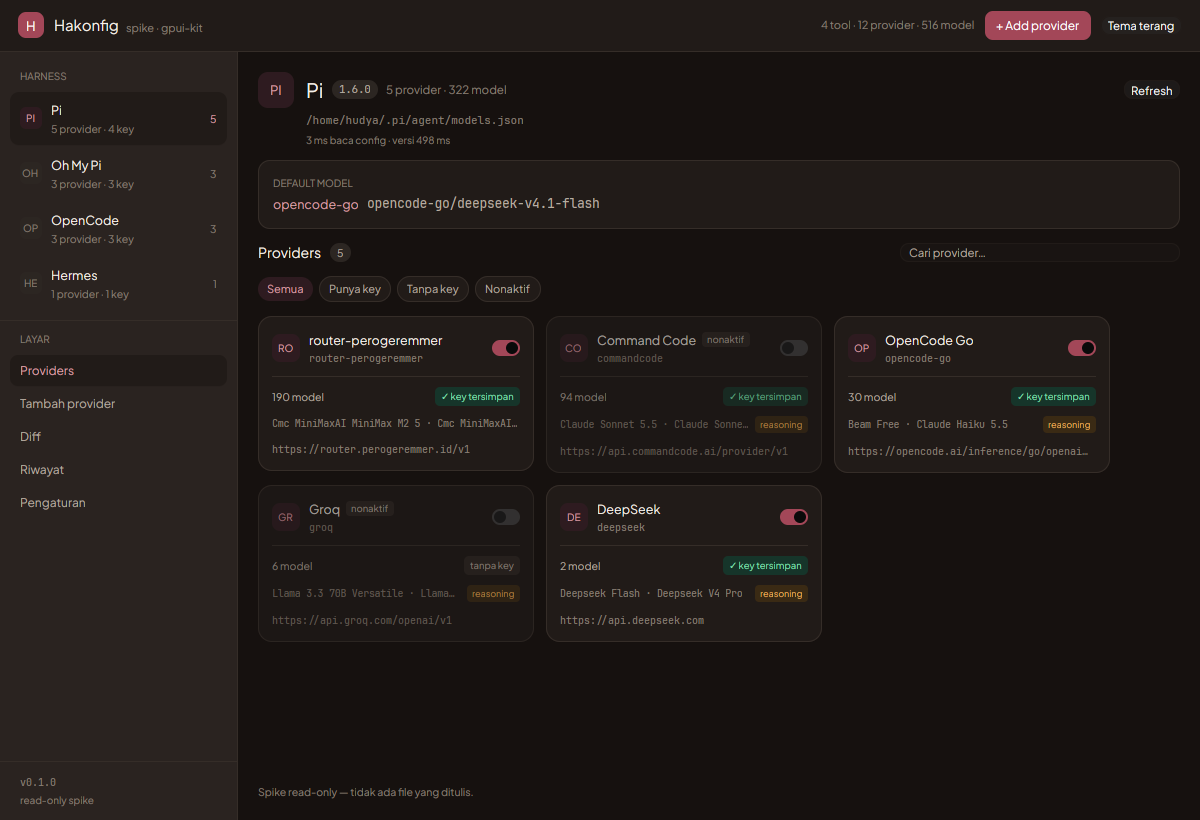
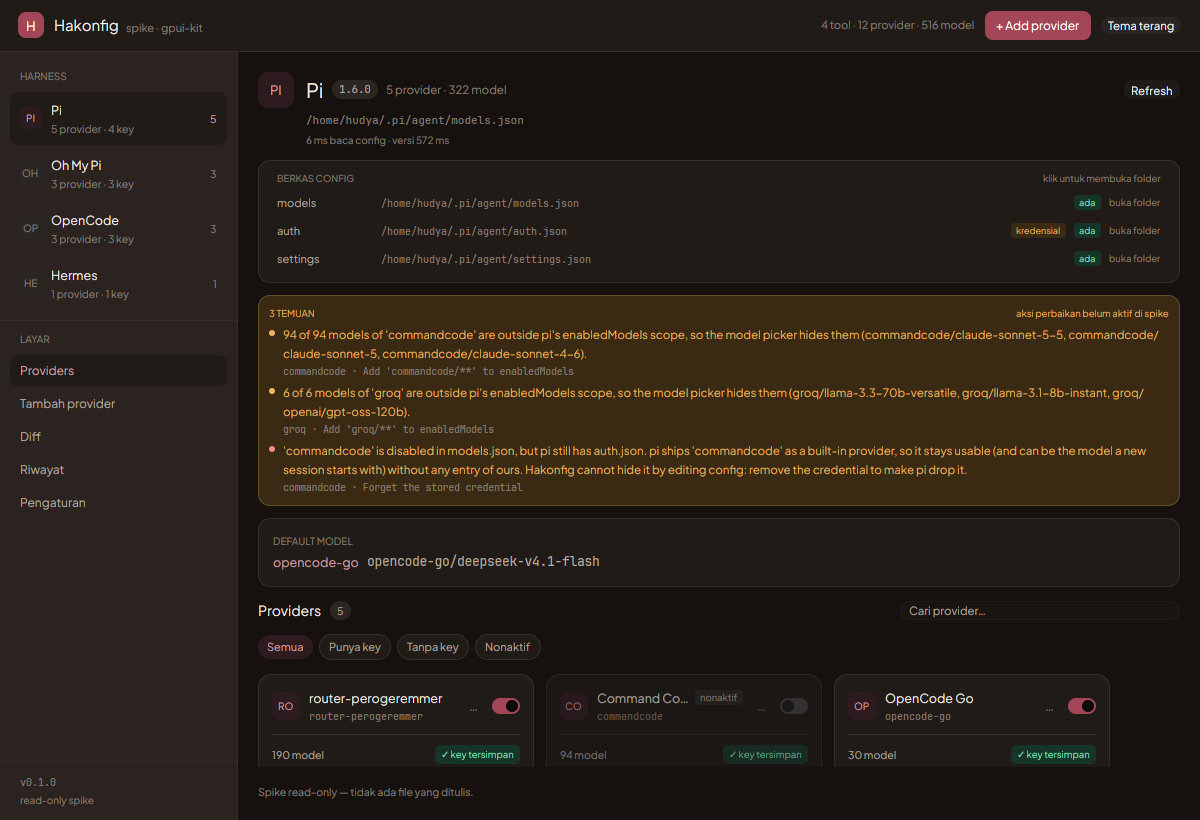
docs(spike): README dengan angka final, status per layar, dan jebakan gpui-kit

diff --git a/spike/gpui-kit/README.md b/spike/gpui-kit/README.md
@@ -1,81 +1,90 @@
-# Spike: layar Providers Hakonfig di atas GPUI Kit
+# Spike: Hakonfig di atas GPUI Kit
 
-Satu layar, satu tujuan: menjawab dengan angka apakah UI native Rust (GPUI Kit)
-layak menggantikan Tauri untuk Hakonfig — bukan dengan opini.
+Port UI Hakonfig dari Tauri (HTML/Tailwind) ke Rust native dengan **GPUI Kit**.
+Tujuannya menjawab dua pertanyaan dengan bukti, bukan opini:
 
-Isi spike ini **596 baris** Rust: sidebar harness, header, daftar provider dengan
-pencarian, kartu status key/model, footer default model, tombol refresh.
-Semua data datang dari `hakonfig_core::api` yang sama dengan yang dipakai
-`hakonfig-cli` dan GUI Tauri. **Nol baris** `hakonfig-core` diubah.
+1. Apakah `hakonfig_core` bisa dipakai apa adanya oleh UI non-Tauri?
+   **Ya** — nol baris core diubah, nol IPC, nol DTO serde.
+2. Seberapa jauh tampilan web bisa direproduksi dengan komponen native?
+   **Cukup jauh** — palet, font, kartu provider, tema gelap, dialog, toast,
+   tabel diff semua native.
 
-![Providers](docs/providers.png)
-![Pencarian](docs/providers-search.png)
+![Providers](docs/ui-light.png)
+![Tema gelap](docs/ui-dark.png)
+![Riwayat](docs/ui-history.png)
 
 ## Jalankan
 
 ```sh
 cd spike/gpui-kit
-cargo run --release          # butuh Rust 1.95+ (lihat catatan toolchain)
-./bench.sh                   # ukuran binary, dependency sistem, startup, RSS
+cargo run --release         # butuh Rust 1.95+ (lihat rust-toolchain.toml)
+
+./bench.sh                  # ukuran binary, dependency sistem, startup, RSS
 ./window-startup.sh ./target/release/hakonfig-spike "spike gpui-kit"
 ```
 
-Linux butuh paket dev: `libxcb`, `libxkbcommon`, `libxkbcommon-x11`
-(`libfontconfig`, `libfreetype` sudah jadi dependency umum).
+Linux: `libxcb`, `libxkbcommon`, `libxkbcommon-x11` (dev). `build.rs` menyediakan
+taut lokal kalau paket dev `libxkbcommon-x11` belum terpasang.
 
-## Angka
+## Angka (mesin ini, X11, release tanpa LTO)
 
-Diukur di mesin ini (X11, Rust 1.95.0, profil release tanpa LTO):
-
-| | Tauri 0.7.3 (rilis sekarang) | Spike GPUI Kit |
+| | Tauri 0.7.3 | Spike GPUI Kit |
 |---|---|---|
 | Binary | **6,3 MB** | 54 MB (42 MB di-strip) |
-| Dependency sistem | GTK3 + **WebKitGTK 2.50** + libxcb | libxcb, libxkbcommon, libc |
-| Waktu jendela tampil | **64–84 ms** | ~110 ms |
-| Frame pertama terlukis | tidak diukur | **167 ms** |
-| Data provider siap | tidak diukur | 1263 ms (didominasi spawn proses) |
+| Dependency sistem | GTK3 + **WebKitGTK 2.50** | libxcb, libxkbcommon, libc |
+| Jendela tampil | **64–84 ms** | ±110 ms |
+| Frame pertama berisi data | — | **307–387 ms** |
 | RSS | 144 MB | **119 MB** |
 
-Yang lebih penting dari tabel itu: **baca config 4 harness = 2 ms**. Sisa
-±1000 ms berasal dari `api::harness_version()`, yang menjalankan `<bin> --version`
-(omp saja 604 ms). Biaya itu identik di Tauri; renderer bukan bottleneck.
+Yang lebih penting dari tabel: **baca 4 config = 40–52 ms**, sedangkan
+`harness_version()` (spawn `<bin> --version`) memakan **±1.000 ms** dan identik di
+Tauri. Jadi bottleneck startup bukan renderer. Setelah probe versi dipindah ke
+background, frame pertama turun dari 1.178 ms (layar kosong) ke ±340 ms (data
+sudah tampil).
 
-## Temuan yang perlu dibaca sebelum memutuskan
+## Isi
 
-1. **Core benar-benar bebas UI.** `list_harnesses()`, `read_harness(id)`,
-   `harness_version(id)`, `HarnessSnapshot`, `ProviderSummary` dipakai langsung.
-   Tidak ada IPC, tidak ada DTO serde, tidak ada `capabilities/*.json`,
-   tidak ada `gen/schemas`. Ini keuntungan struktural yang nyata.
-2. **gpui-kit butuh Rust ≥ 1.95.** Di stable 1.93 build gagal: `gpui-pre 0.3.12`
-   memakai `std::hint::cold_path()` (issue rust-lang#136873). Crate-nya juga
-   tidak mendeklarasikan `rust-version`, jadi kegagalannya tidak jelas. Spike ini
-   memakai `rust-toolchain.toml` untuk memaku 1.95.0.
-3. **Konstruktor view sinkron.** Versi naif (baca config di `new()`) menahan
-   frame pertama sampai 1178 ms. Setelah dipindah ke `cx.background_spawn`,
-   frame pertama 167 ms dan data menyusul. Porting berarti menambah plumbing
-   async di setiap layar, bukan sekadar menerjemahkan HTML.
-4. **Default layout mengejutkan.** `h_flex()` di gpui-kit = row **+ items_center**.
-   Anak-anaknya jadi center vertikal sampai ditambah `items_stretch()` — bug
-   pertama yang muncul di spike ini, dan tipe regresi yang akan berulang di 5
-   layar lain.
-5. **Font tidak otomatis.** Spike memakai font sistem; Plus Jakarta Sans yang
-   sekarang dibundel lewat `@font-face` harus didaftarkan manual ke font registry.
-6. **Tidak ada devtools, tidak ada preview browser.** Iterasi = recompile
-   (0,4 s untuk crate ini setelah dependency selesai; build dependency penuh
-   3 m 53 s sekali di awal).
-7. **Binary lebih besar, RAM lebih kecil.** 54 MB vs 6,3 MB, tapi Tauri menumpang
-   WebKitGTK sistem — README proyek mencatat AppImage ~84 MB karena membundelnya.
-   Untuk distribusi Linux, "tanpa WebKitGTK" adalah keuntungan yang lebih nyata
-   daripada angka startup.
+| Layar | Status | File |
+|---|---|---|
+| Providers: kartu, cari, filter, toggle, menu aksi | selesai | `src/views/providers.rs` |
+| Berkas config + tombol buka folder | selesai | `src/views/providers.rs` |
+| Notice/temuan dari `api::list_notices` | selesai | `src/views/providers.rs` |
+| Riwayat backup + dialog restore | selesai | `src/views/history.rs` |
+| Tambah provider (3 langkah) | dikerjakan agent | `src/views/add.rs` |
+| Diff per file | dikerjakan agent | `src/views/diff.rs` |
+| Pengaturan: tema, bahasa, diagnostik | dikerjakan agent | `src/views/settings.rs` |
 
-## Kesimpulan spike
+Rincian 38 butir + status: [`FEATURES.md`](FEATURES.md). Log kerja: [`PROGRESS.md`](PROGRESS.md).
 
-Porting ke GPUI Kit **layak secara teknis** (core utuh, 596 baris untuk satu layar
-yang fungsional), tapi argumen "lebih cepat" tidak terbukti: bottleneck startup
-sekarang adalah probe versi tool, dan itu bisa diperbaiki di kode yang ada hari
-ini. Argumen yang tersisa dan tetap kuat adalah distribusi Linux tanpa
-WebKitGTK, plus hilangnya lapisan IPC.
+## Struktur
 
-Sisa pekerjaan untuk port penuh: ±5.400 baris JS/CSS/i18n → estimasi 6–8 ribu
-baris Rust (form provider, diff viewer, history/backup, settings, install log
-dengan streaming, dialog konfirmasi) ditambah plumbing async per layar.
+```
+src/main.rs      bootstrap: font, tema, jendela
+src/app.rs       state + shell (top bar, sidebar, navigasi)
+src/data.rs      pembacaan harness lewat hakonfig_core::api
+src/net.rs       pembungkus tes koneksi (reqwest butuh reaktor tokio)
+src/palette.rs   token warna dari web/styles.src.css + tema gpui-kit
+src/views/       satu file per layar; kontraknya new(window, cx) + set_harness()
+assets/fonts/    Plus Jakarta Sans + JetBrains Mono (dibundel, OFL)
+progress/        catatan per-agent (append-only, digabung ke PROGRESS.md)
+```
+
+## Batasan yang disengaja
+
+Spike ini **read-only**: tidak ada `api::apply_edit`, `restore_backup`, atau
+`fix_notice`. Semua tombol destruktif ada, tapi hanya menjelaskan panggilan core
+yang akan dipakai. Tujuannya menilai toolkit, bukan memigrasikan penulisan file.
+
+## Temuan GPUI Kit yang mahal kalau ditemukan ulang
+
+- Butuh **Rust ≥ 1.95** (`std::hint::cold_path` di `gpui-pre 0.3.12`); crate-nya
+  tidak mendeklarasikan `rust-version`, jadi di 1.93 gagal dengan pesan samar.
+- `h_flex()` = row **+ items_center**; butuh `items_stretch()` untuk layout penuh.
+- `Button::primary()` memakai token `button_primary` dari tema bawaan, bukan
+  `ThemeColor` yang kita timpa → warnanya salah. Solusi: `palette::brand_button`.
+- Closure dialog dipanggil berulang dan `Div` tidak `Clone` → bangun elemen di
+  dalam closure.
+- `Theme::update` butuh `&mut App`, sedangkan `cx.listener` hanya memberi
+  `&mut Context<Self>`; handler tombol gpui-kit menerima `&mut App`, jadi tombol
+  tema memakai closure mentah.
+- Konstruktor view harus menerima `&mut Window` kalau ingin `InputState`.

diff --git a/spike/gpui-kit/PROGRESS.md b/spike/gpui-kit/PROGRESS.md
@@ -48,7 +48,7 @@ xdotool search --name "spike gpui-kit" | tail -1 | xargs -I{} import -window {} 
 
 ## Log
 
-### 2026-11-23 01:20 · repo · menu aksi provider + toast
+### 2026-11-23 00:37 · repo · menu aksi provider + toast
 - Kerja: tombol `…` per kartu provider membuka dialog berisi 6 aksi (Edit,
   Kelola model, Jadikan default, (Non)aktifkan, Lupakan kredensial, Hapus),
   masing-masing menyebut `EditOp` yang akan dipakai. Semua sengaja tidak
@@ -58,7 +58,7 @@ xdotool search --name "spike gpui-kit" | tail -1 | xargs -I{} import -window {} 
   harus dibangun DI DALAM closure (`Div` tidak Clone) — ini penyebab error
   pertama saat menulis menu ini.
 
-### 2026-11-23 01:10 · repo · berkas config + notice di layar Providers
+### 2026-11-23 00:25 · repo · berkas config + notice di layar Providers
 - Kerja: kartu "Berkas config" (role, path mono, badge kredensial, ada/belum,
   klik = buka folder lewat `xdg-open`/`open`/`explorer`), dan kartu temuan
   dari `api::list_notices` (amber, destructive ditandai merah).
@@ -68,7 +68,7 @@ xdotool search --name "spike gpui-kit" | tail -1 | xargs -I{} import -window {} 
 - Catatan: `list_notices` membaca ulang berkas yang sama (±5 ms/harness), jadi
   digabung ke `HarnessEntry::load` alih-alih panggilan terpisah.
 
-### 2026-11-23 00:55 · repo · startup dipangkas 3x + layar Riwayat
+### 2026-11-23 00:10 · repo · startup dipangkas 3x + layar Riwayat
 - Kerja: (1) `harness_version()` dipindah ke background, config dibaca sinkron
   (40–52 ms). (2) View `Riwayat` baru: daftar backup nyata dari
   `api::list_backups`, dialog konfirmasi restore (eksekusi nonaktif).
